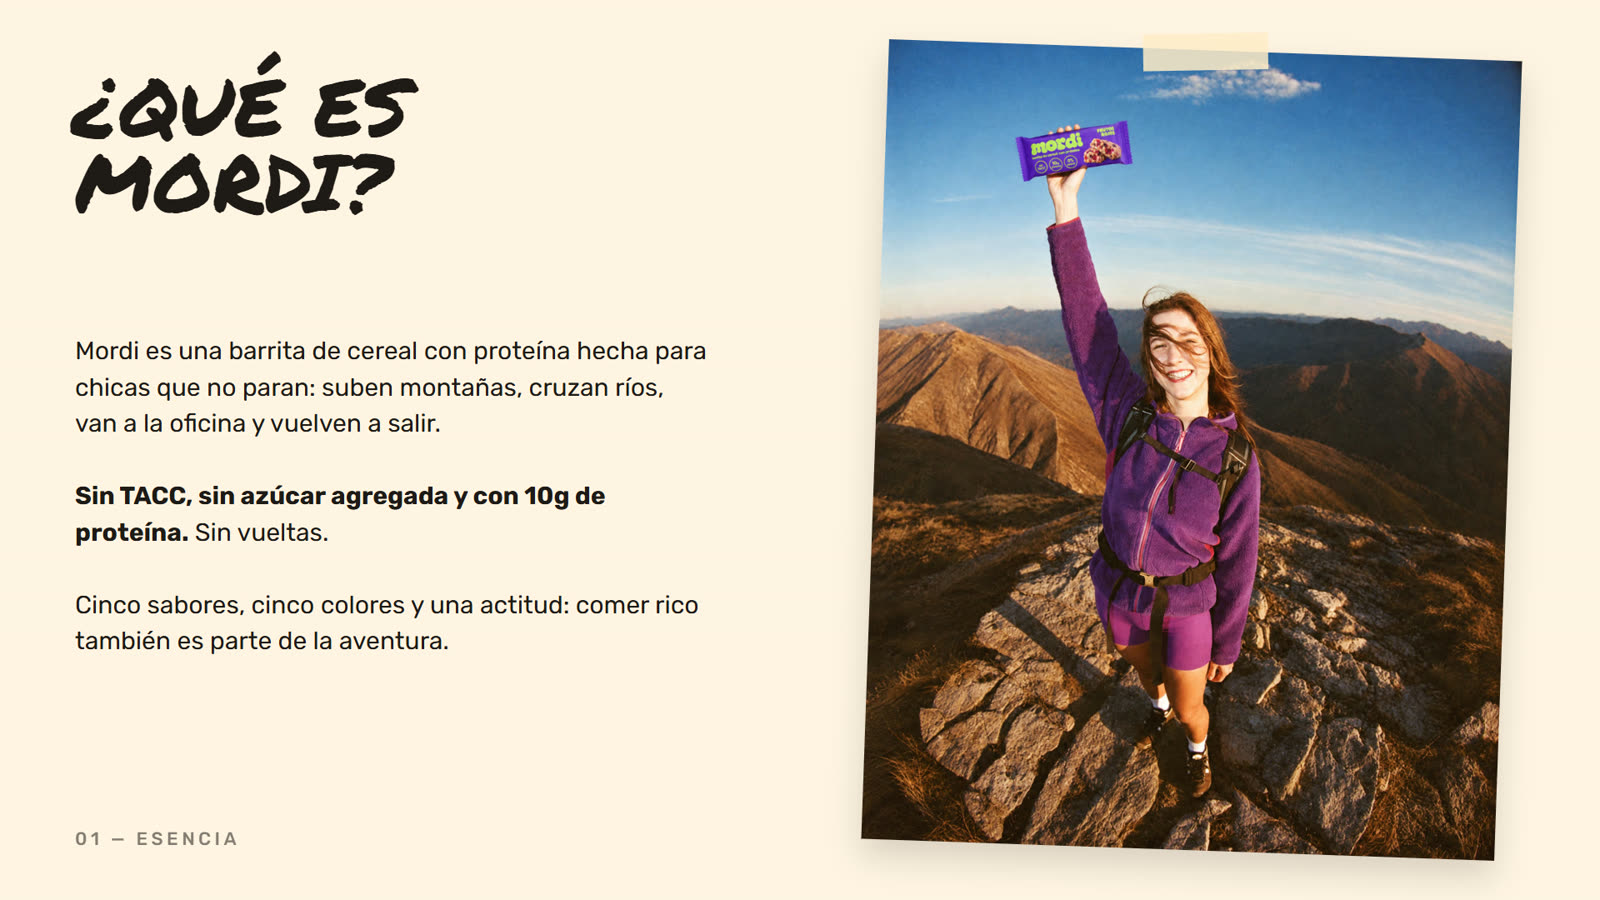
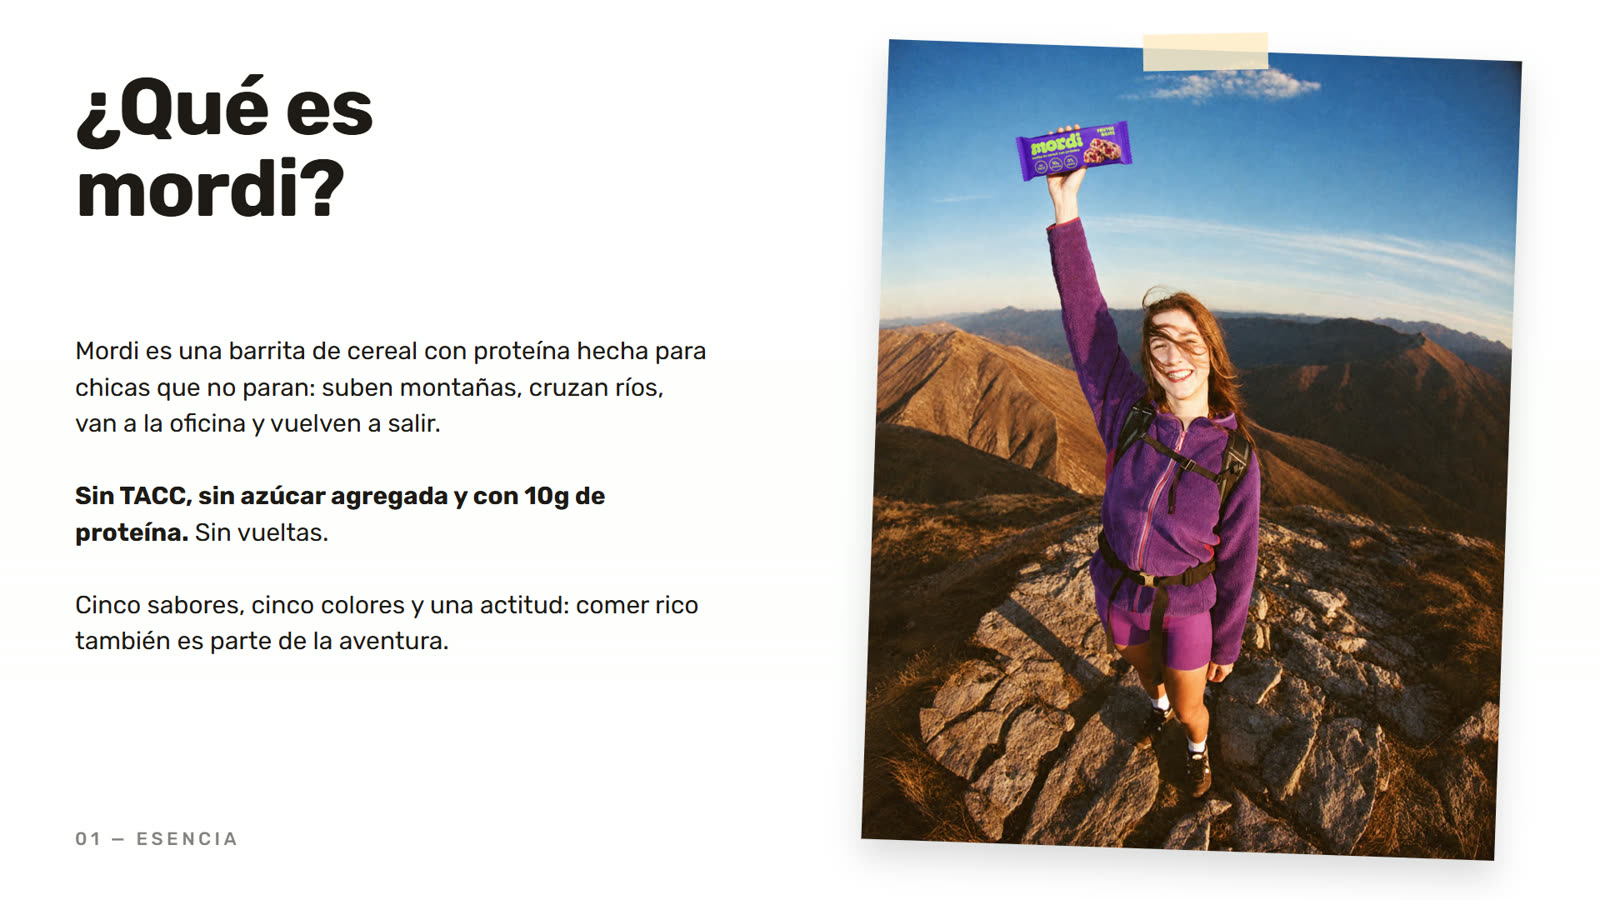
Mordi brandbook: white background and clean Rubik typography

diff --git a/assets/shared.css b/assets/shared.css
@@ -1902,7 +1902,7 @@ body:not(.home) h2 em {
 .mordi-swatch strong { font-family: var(--font-display); font-weight: 600; font-size: 18px; }
 .mordi-swatch span:last-child { font-size: 12.5px; letter-spacing: 0.04em; opacity: 0.85; }
 .mordi-book { max-width: 1040px; margin: 0 auto; }
-.mordi-book-frame { position: relative; aspect-ratio: 16 / 9; border-radius: 18px; overflow: hidden; box-shadow: 0 30px 60px -30px rgba(28, 26, 58, 0.45); background: #FFF4E2; }
+.mordi-book-frame { position: relative; aspect-ratio: 16 / 9; border-radius: 18px; overflow: hidden; box-shadow: 0 30px 60px -30px rgba(28, 26, 58, 0.45); background: #fff; }
 .mordi-book-frame img { position: absolute; inset: 0; width: 100%; height: 100%; object-fit: cover; opacity: 0; transition: opacity 0.4s ease; }
 .mordi-book-frame img.on { opacity: 1; }
 .mordi-book-nav { display: flex; align-items: center; justify-content: center; gap: 20px; margin-top: 18px; font-family: var(--font-mono); font-size: 12px; color: var(--ink-mute); letter-spacing: 0.1em; }

diff --git a/case-mordi.html b/case-mordi.html
@@ -7,7 +7,7 @@
 <meta name="description" content="Caso de estudio: identidad visual, packaging, brandbook, fotografía, video y redes de Mordi, una marca de barritas de cereal con proteína creada como proyecto propio, con imágenes generadas con IA.">
 <link rel="preconnect" href="https://fonts.googleapis.com">
 <link rel="preconnect" href="https://fonts.gstatic.com" crossorigin>
-<link href="https://fonts.googleapis.com/css2?family=Outfit:wght@200;300;400;500;600&family=DM+Sans:ital,opsz,wght@0,9..40,300..600;1,9..40,400&family=Permanent+Marker&display=swap" rel="stylesheet">
+<link href="https://fonts.googleapis.com/css2?family=Outfit:wght@200;300;400;500;600&family=DM+Sans:ital,opsz,wght@0,9..40,300..600;1,9..40,400&display=swap" rel="stylesheet">
 <link rel="icon" type="image/png" href="assets/logo/favicon.png">
 <link rel="apple-touch-icon" href="assets/logo/apple-touch-icon.png">
 <link rel="stylesheet" href="assets/shared.css">
